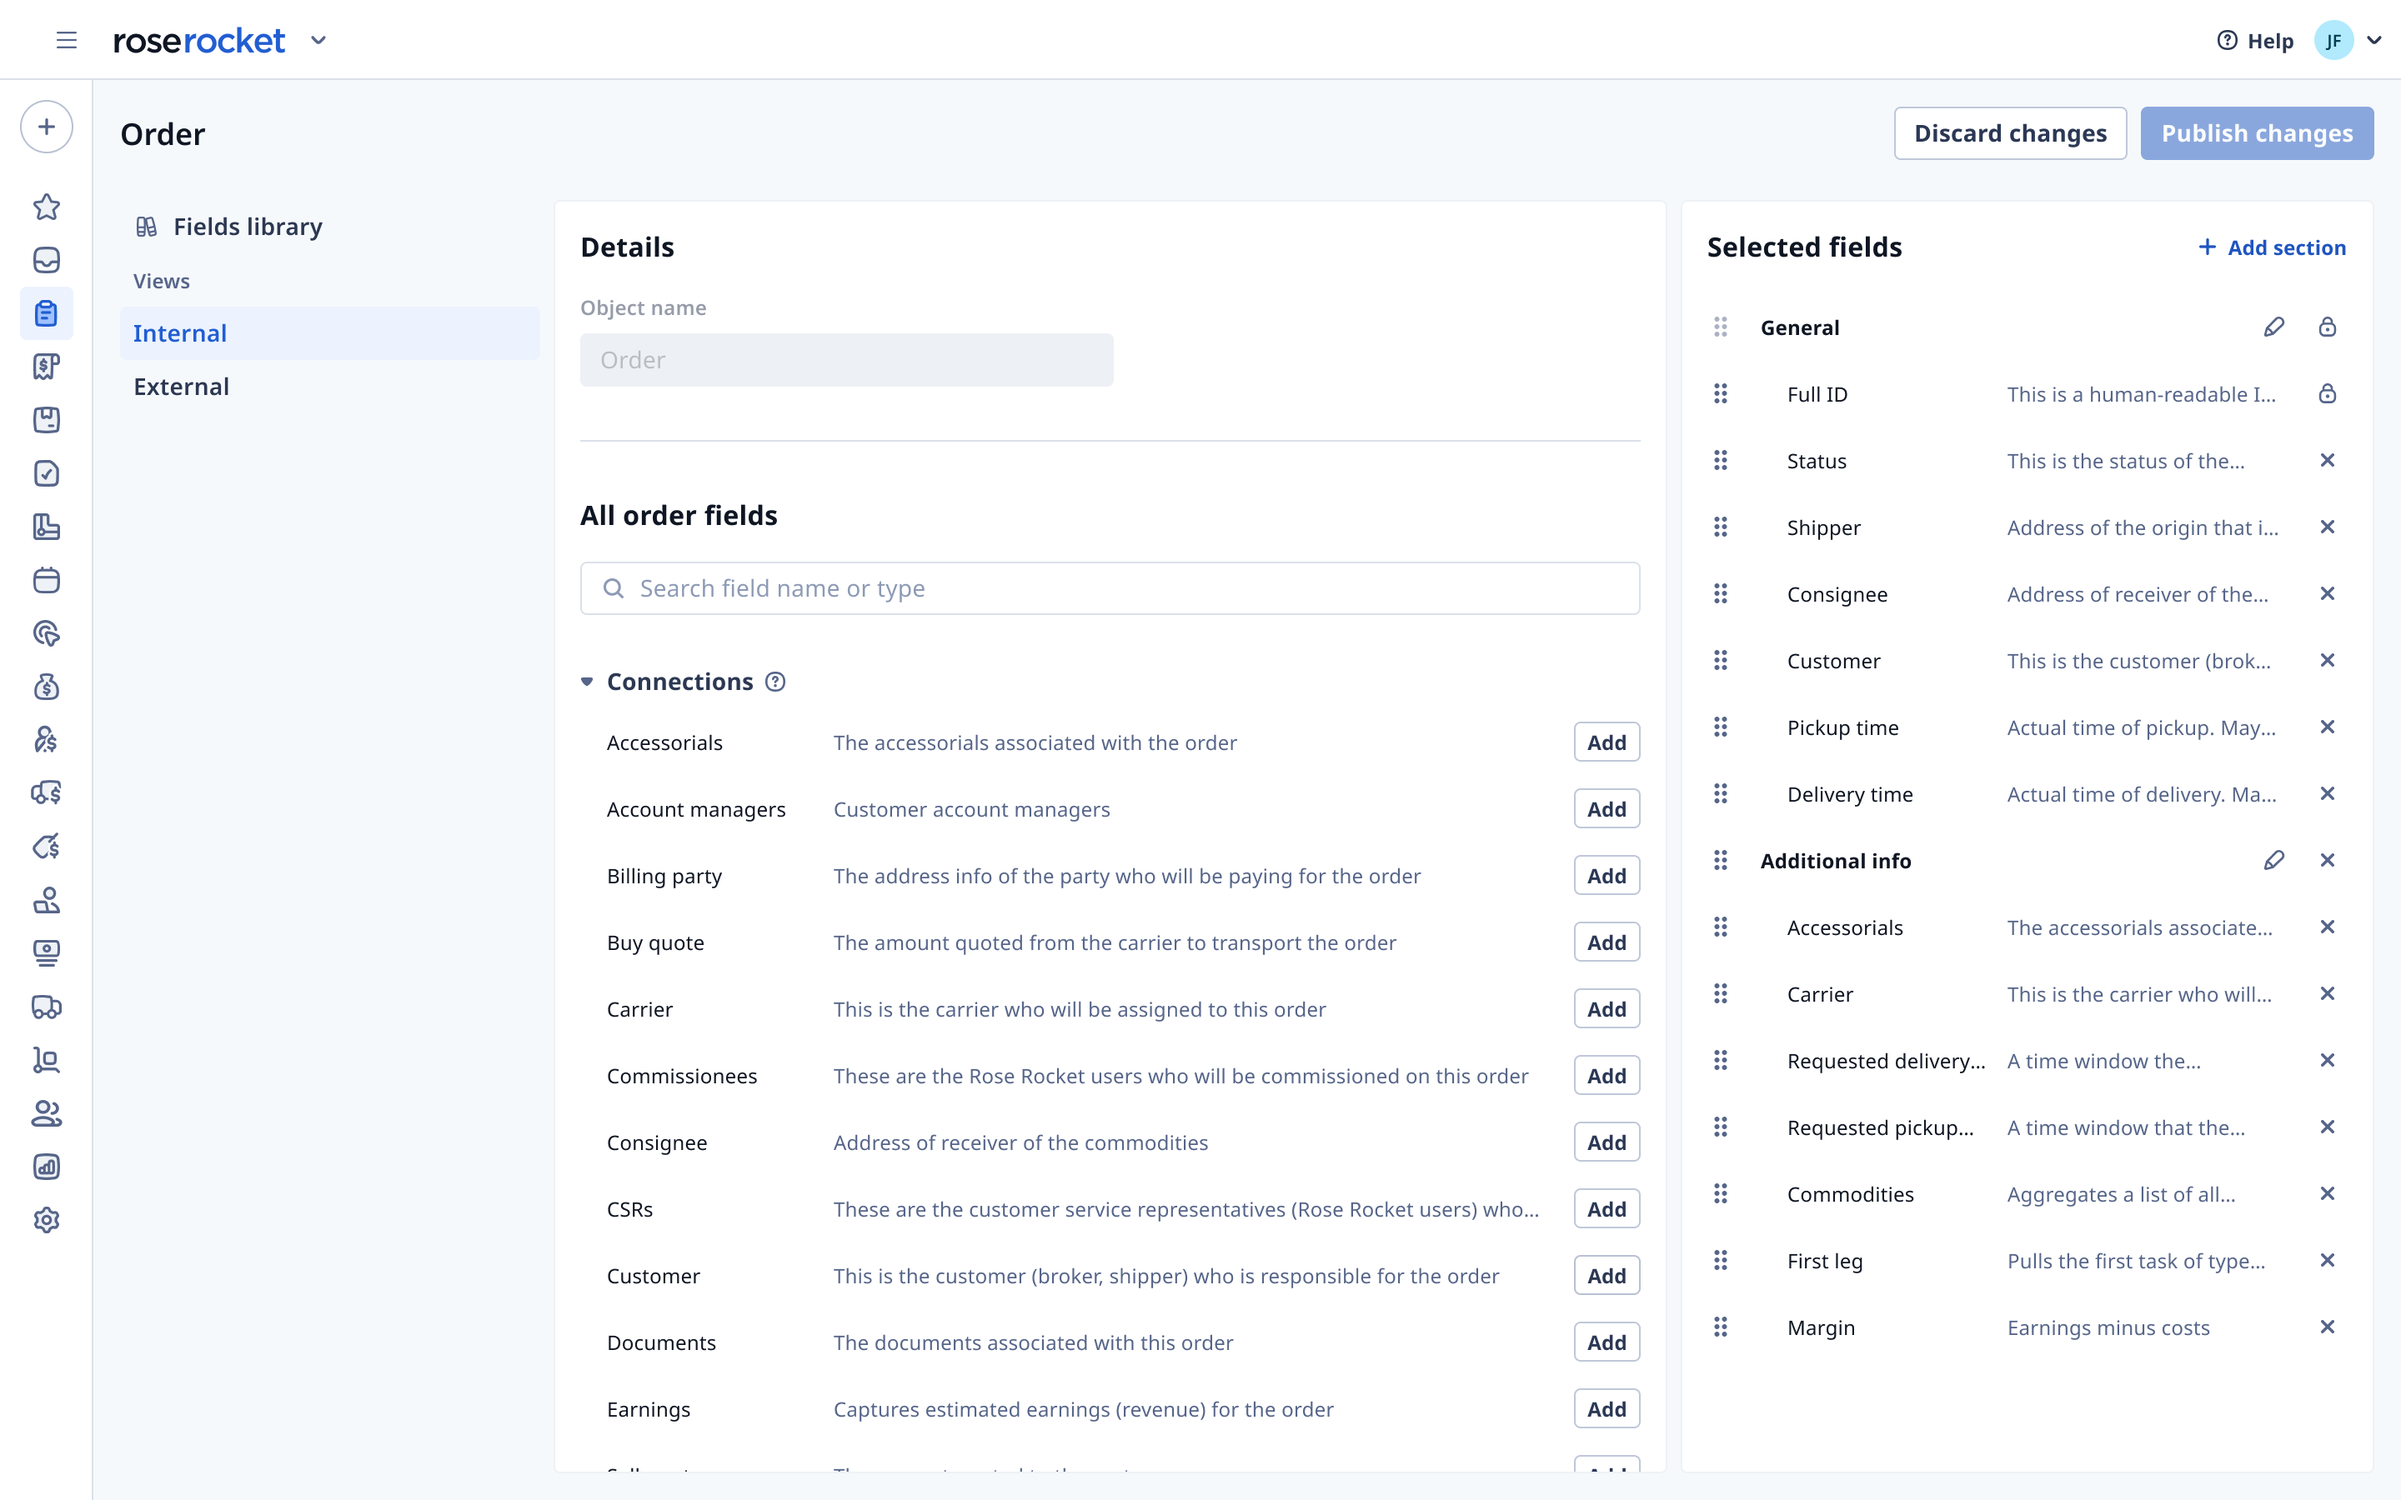
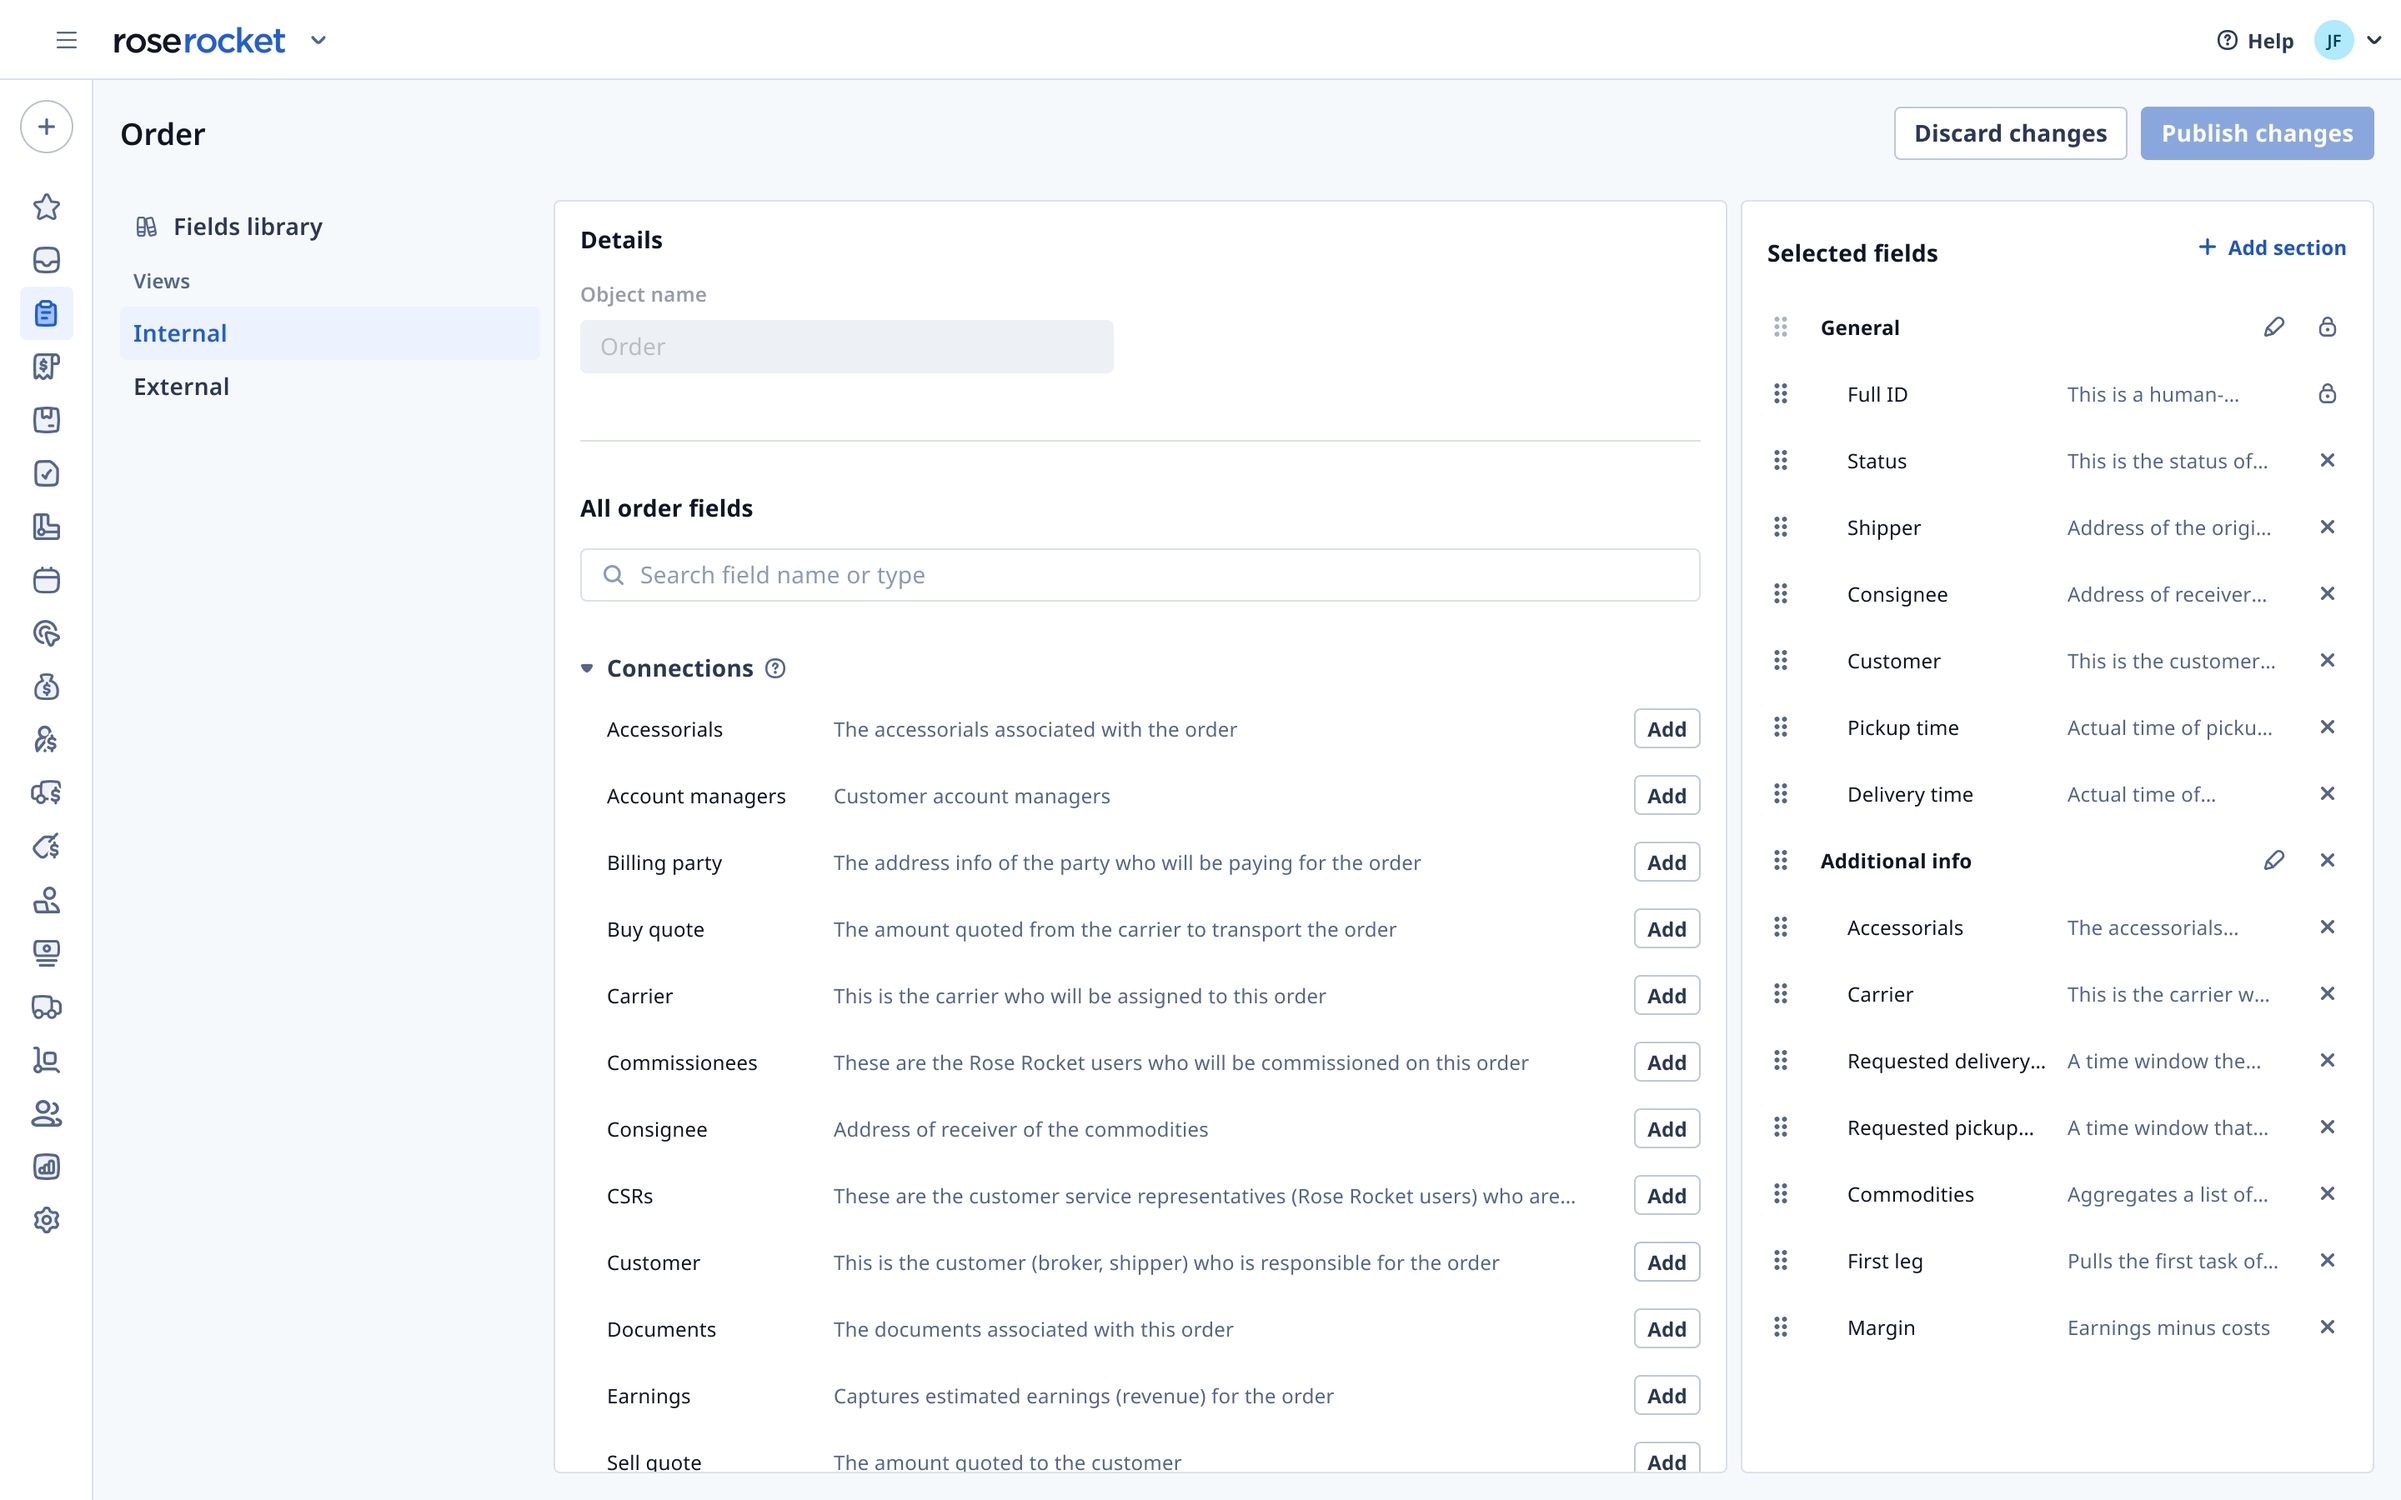
Changes

diff --git a/objectbuilder.html b/objectbuilder.html
@@ -519,12 +519,12 @@
                 <div class="content">
                   <div class="toggle-container spacer-bottom-sm">
                     <img class="toggle-image img-responsive spacer-bottom-xs" src="./files/objectbuilder/p2-layout.png" alt="Toggle Image">
-                    <p class="caption">Visual comparison of the PoC and Commercial launch versions.</p>
+                    <p class="caption">Visual comparison between the PoC and Commercial launch versions.</p>
                     <div class="tab-container spacer-bottom">
                       <div class="tab active" data-image="./files/objectbuilder/p2-layout.png" data-caption="Visual comparison of the PoC and Commercial launch versions.">Before</div>
                       <div class="tab" data-image="./files/objectbuilder/p2-layout-after.png" data-caption="Visual comparison of the PoC and Commercial launch versions.">After</div>
                     </div>  
-                    <p class="spacer-bottom-sm">Alongside the adjustments outlined above, we implemented several other quality-of-life improvements:</p>
+                    <p class="spacer-bottom-sm">Alongside the adjustments outlined above, we implemented several other quality-of-life improvements, including:</p>
                   </div>
 
                   <div class="callout-feedback spacer-bottom-sm">
@@ -532,7 +532,7 @@
                       <div class="row">
                         <div class="col-12 col-lg-6">
                           <h4>Improved visual styling</h4>
-                          <p class="content-weaker">To help provide visual differentiation between the right panel and the center field library, the center list was styled as cards with field type icons.</p>
+                          <p class="content-weaker">To help provide visual differentiation between the right panel and the center field library, the library was re-styled to cards. Similar to the right panel, field type icons were also added.</p>
                         </div>
                         <div class="col-12 col-lg-6">
                           <img class="toggle-image img-responsive spacer-bottom-xs" src="./files/objectbuilder/p2-styling.png" alt="Toggle Image">
